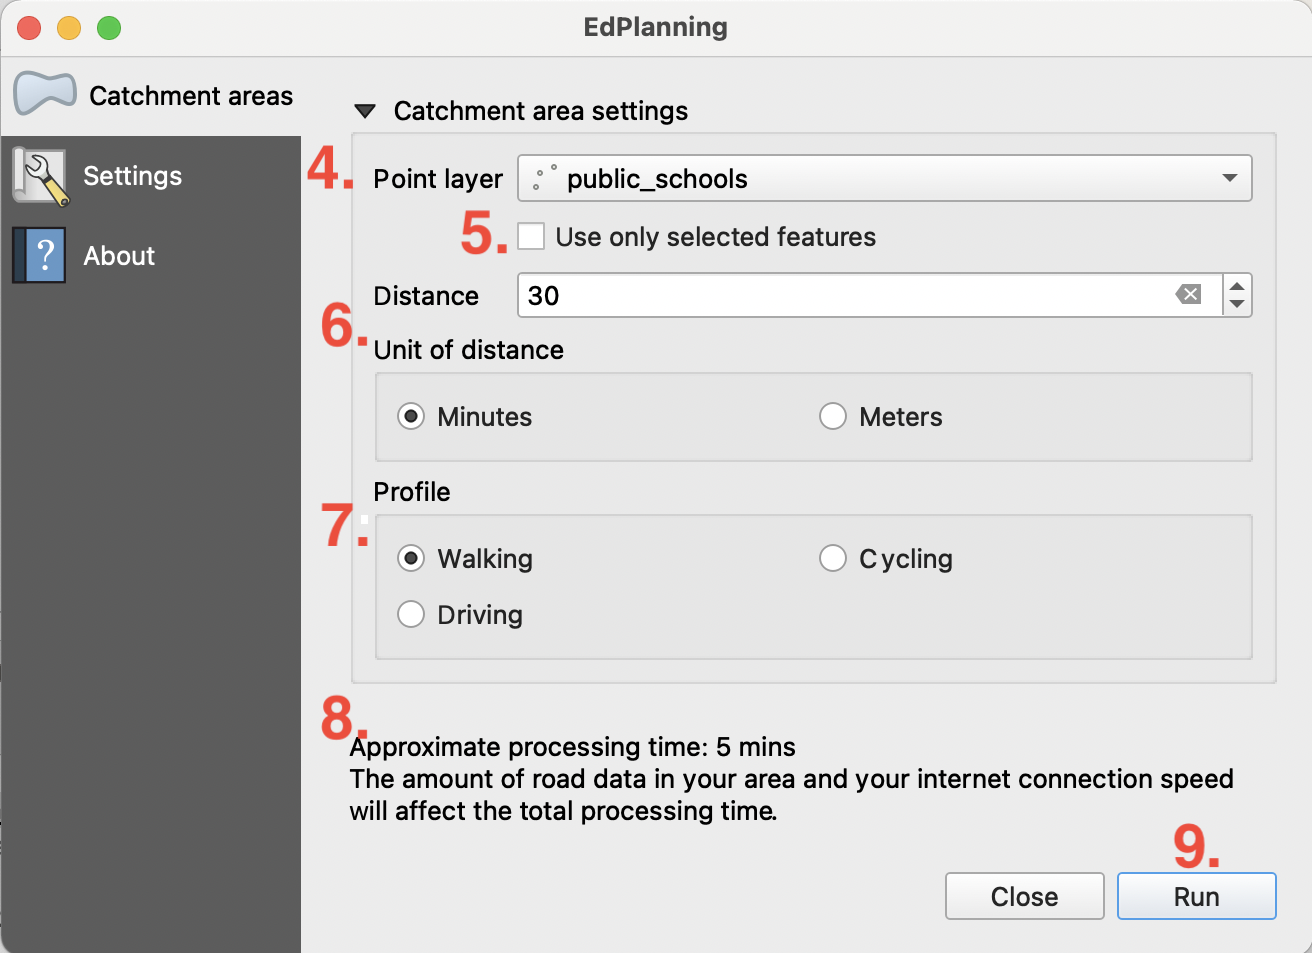
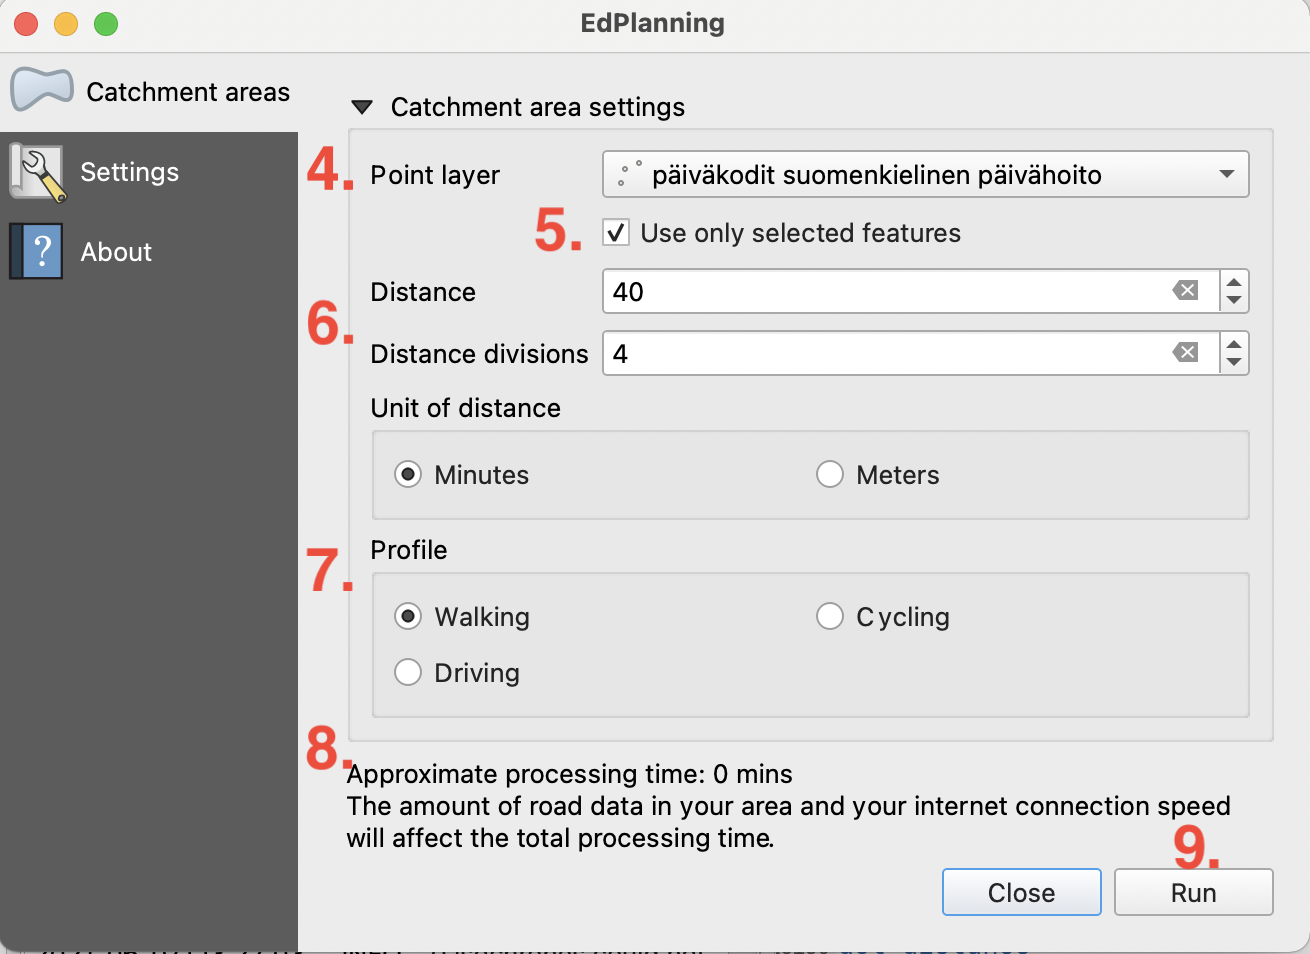
Update readme with bucket instructions

diff --git a/README.md b/README.md
@@ -44,7 +44,7 @@ See the [graphhopper-docker repository](https://github.com/GispoCoding/graphhopp
 
 4. Select any point layer currently open in your QGIS project.
 5. If you have filtered or selected points in the layer, you may only use selected points. Otherwise, all points will be used in the calculation.
-6. Select the distance you want to travel in minutes or meters.
+6. Select the distance you want to travel in minutes or meters. You may calculate multiple isochrones per point ("buckets") at the same time by setting the number of distance divisions. They will be exact divisions of the total distance, and each distance will be saved in the `distance` field of the resulting isochrones. Calculating multiple isochrones per point will increase the processing time.
 7. Select the mode of transit. Walking is the default and uses all Openstreetmap paths.
 8. Calculation time estimate is shown based on the currently selected settings. It will warn you if the run is going to take too long.
 9. Press Run to start calculating.
